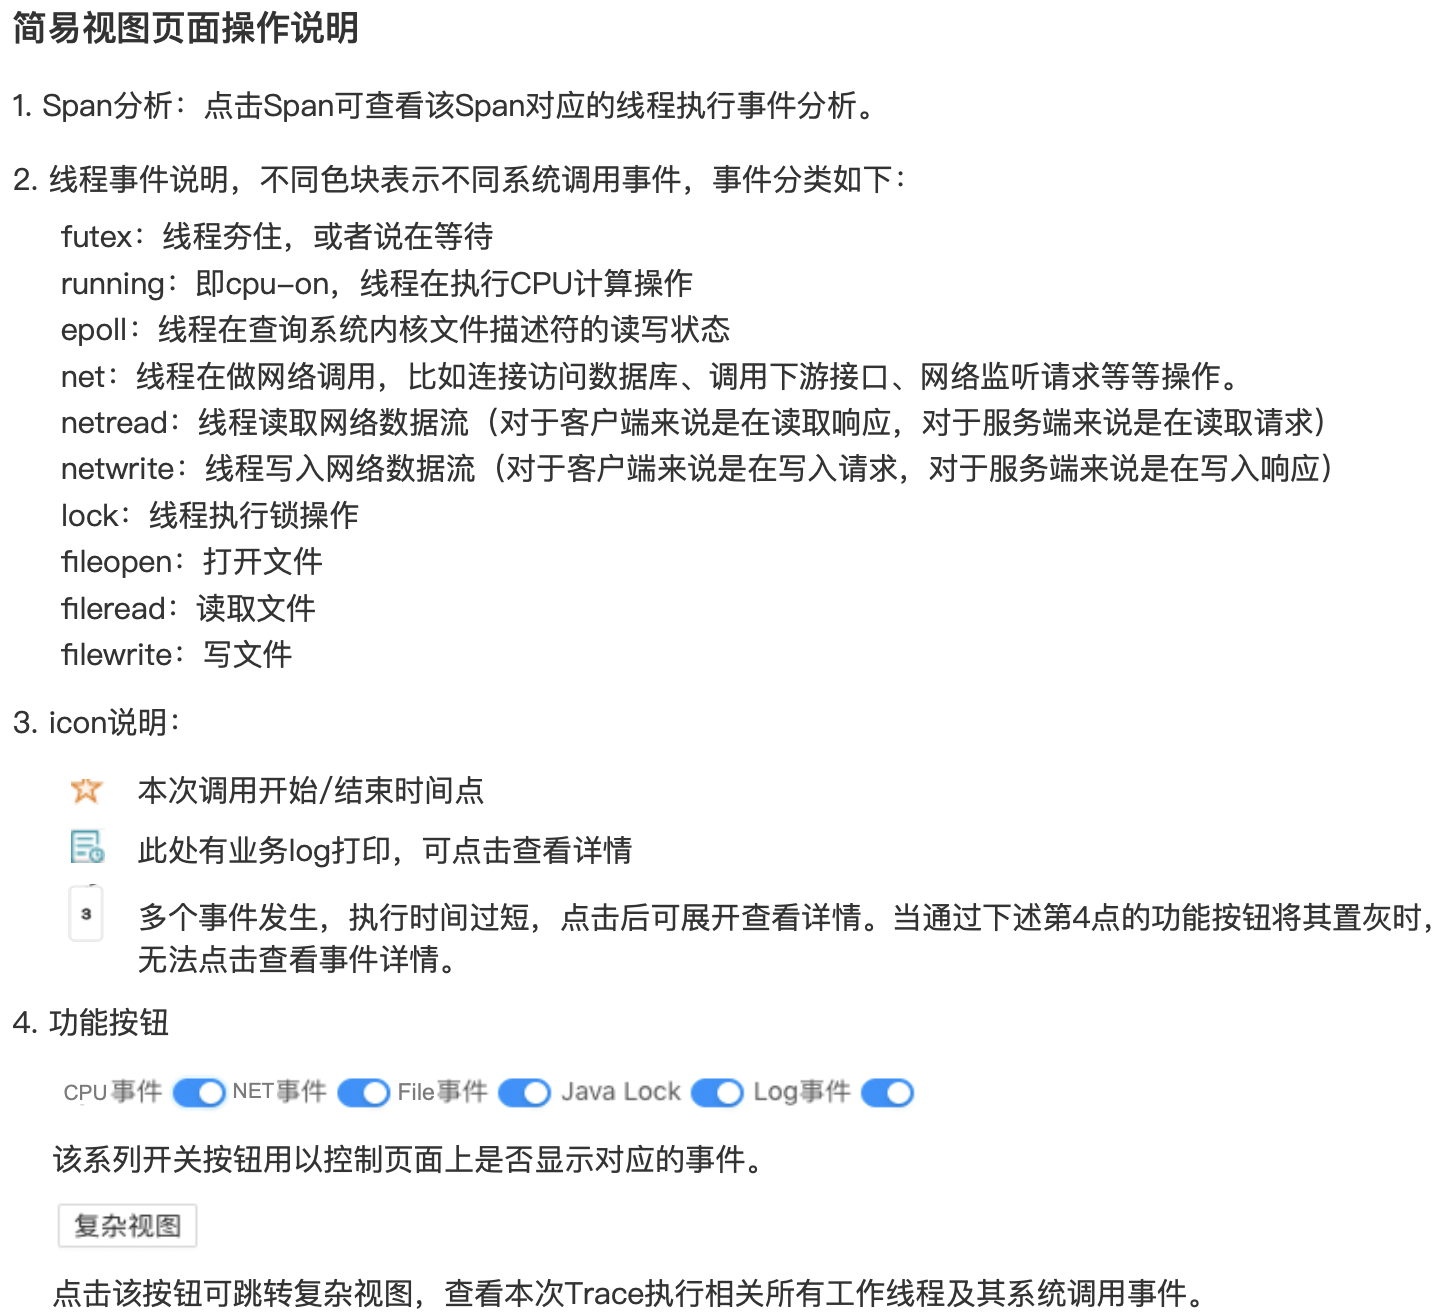
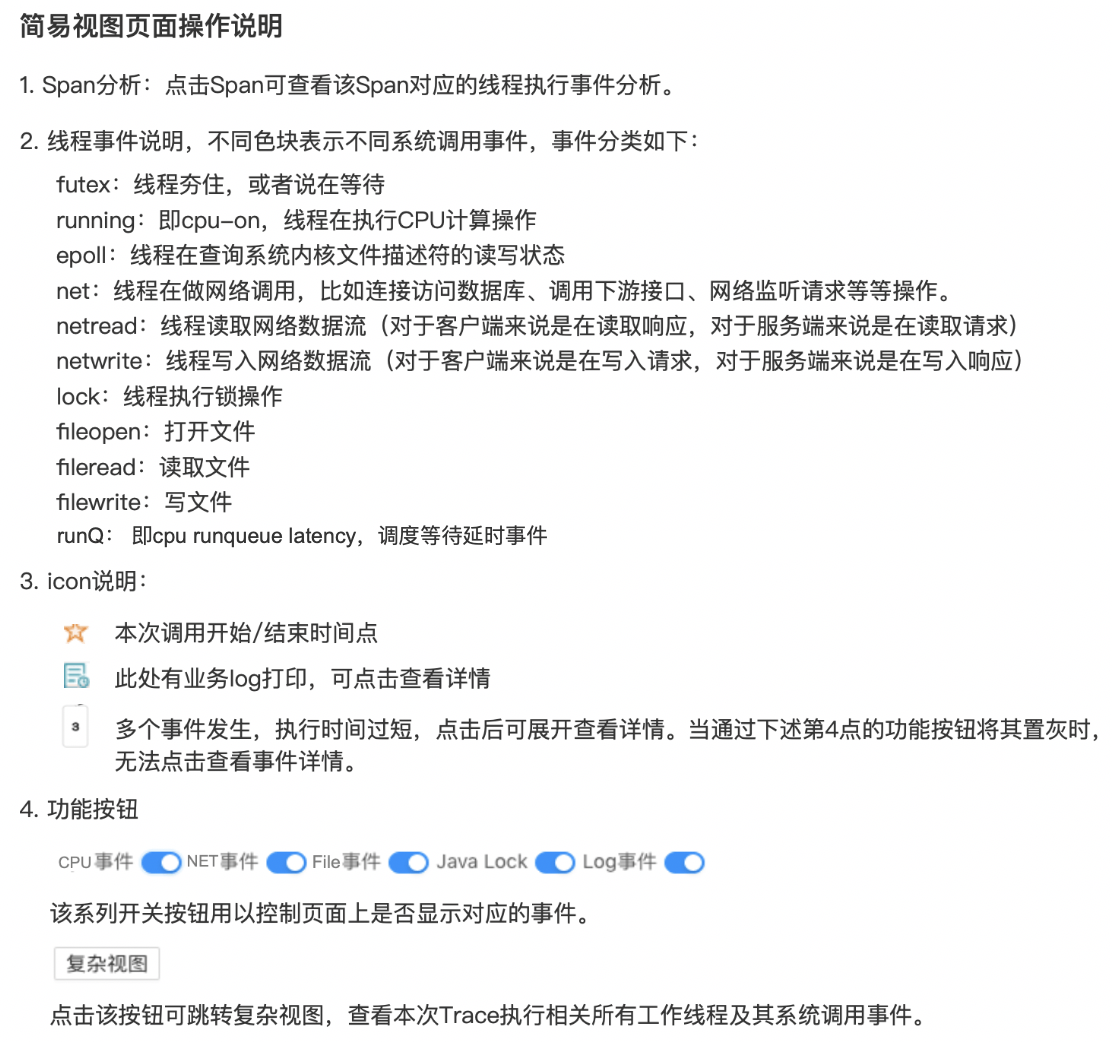
runq event fix in easy view

Changed region(s): [[0.0, 0.1228, 0.9784, 1.0], [0.0, 0.0, 0.6115, 0.0921]]

diff --git a/camera-front/src/containers/thread/camera/index.tsx b/camera-front/src/containers/thread/camera/index.tsx
@@ -140,19 +140,31 @@ class CameraWarp extends React.Component<IProps, IState> {
         this.setState((prevState) => ({
             showRunq: !prevState.showRunq
         }));
-        this.state.showRunq ? this.camera.hideRunQ() : this.camera.showRunQ();
+        if (this.props.option.showComplex) {
+            this.state.showRunq ? this.camera.hideRunQ() : this.camera.showRunQ();
+        } else {
+            this.state.showRunq ? this.easyCamera.hideRunQ() : this.easyCamera.showRunQ();
+        }
     }
     toggleJavaLockBtn = () => {
         this.setState((prevState) => ({
             showJavaLock: !prevState.showJavaLock
         }));
-        this.state.showJavaLock ? this.camera.hideJavaLock() : this.camera.showJavaLock();
+        if (this.props.option.showComplex) {
+            this.state.showJavaLock ? this.camera.hideJavaLock() : this.camera.showJavaLock();
+        } else {
+            this.state.showJavaLock ? this.easyCamera.hideJavaLock() : this.easyCamera.showJavaLock();
+        }
     }
     toggleLogBtn = () => {
         this.setState((prevState) => ({
             showLog: !prevState.showLog
         }));
-        this.state.showLog ? this.camera.hideLog() : this.camera.showLog();
+        if (this.props.option.showComplex) {
+            this.state.showLog ? this.camera.hideLog() : this.camera.showLog();
+        } else {
+            this.state.showLog ? this.easyCamera.hideLog() : this.easyCamera.showLog();
+        }
     }
 
     showSpanChart = () => {

diff --git a/camera-front/src/containers/thread/camera/easyDraw.ts b/camera-front/src/containers/thread/camera/easyDraw.ts
@@ -169,7 +169,7 @@ class EasyCamera {
                         const eventWarp = barWarp.append('g')
                             .attr('id', `id_${idx}_${idx2}`)
                             .attr('data-type', event.eventType)
-                            .attr('class', 'event_warp');
+                            .attr('class', `event_warp ${event.eventType === 'runqLatency' ? 'event_runq' : ''}`);
                         eventWarp.append('rect')
                             .attr('class', 'event_rect')
                             .attr('width', timeWidth)
@@ -418,7 +418,7 @@ class EasyCamera {
             const eventWarp = subRectWarp.append('g')
                 .attr('id', `id_${idx}_${event.idx}`)
                 .attr('data-type', event.eventType)
-                .attr('class', 'event_warp');
+                .attr('class', `event_warp ${event.eventType === 'runqLatency' ? 'event_runq' : ''}`);
             eventWarp.append('rect')
                 .attr('class', 'event_rect')
                 .attr('width', this.subEventWidth)

diff --git a/camera-front/src/containers/thread/camera/util.ts b/camera-front/src/containers/thread/camera/util.ts
@@ -163,7 +163,7 @@ export const eventList: IEvent[] = [
         alias: 'runQ',
         value: 'runqLatency',
         type: 'runqLatency',
-        fillColor: '#eed7ea',
+        fillColor: '#fcc3f3',
         activeColor: '#ff87e3',
         color: '#fb65d8'
     }

diff --git a/camera-front/src/containers/thread/camera/types.ts b/camera-front/src/containers/thread/camera/types.ts
@@ -55,8 +55,8 @@ export type IEventTime  = {
     idx?: number;
     timeRate?: number;
     left?: number;
-    onOff?: boolean;
     runqLatency?: number;
+    onOff?: boolean;
     children?: IEventTime[];
 }
 export type IJavaLock  = {
